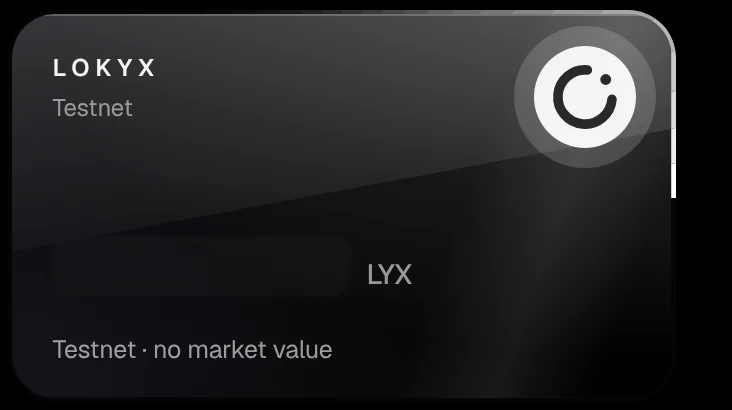
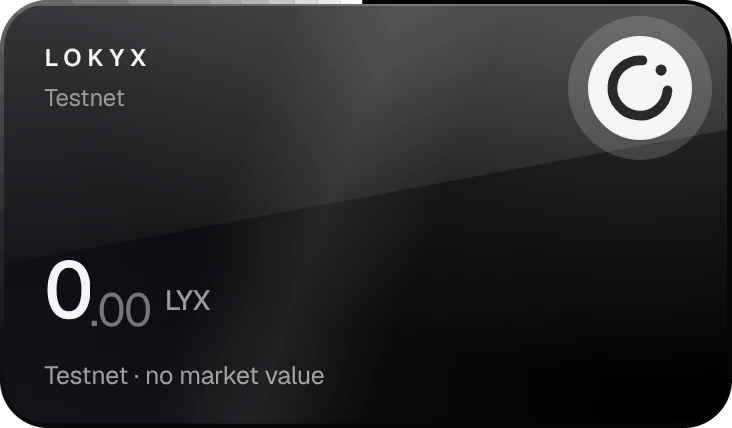
Site: clean card images, smoother card shuffle, what-comes-next section

diff --git a/site/index.html b/site/index.html
@@ -57,7 +57,7 @@ h3{font-size:21px;letter-spacing:-.015em;line-height:1.2;font-weight:600}
 .hero{padding:96px 22px 0;text-align:center;overflow:hidden}
 .hero .small{margin-top:20px}
 .cards{position:relative;margin:84px auto 0;max-width:1180px;height:clamp(150px,24vw,330px)}
-.cards img{position:absolute;top:0;width:30%;border-radius:4.5%;box-shadow:0 30px 60px rgba(0,0,0,.6)}
+.cards img{position:absolute;top:0;width:30%;border-radius:6.5%/11.2%;box-shadow:0 30px 60px rgba(0,0,0,.6);border-radius:6.5%/11.2%}
 .cards img:nth-child(1){left:0;z-index:1;--r:-5deg;--y:34px}
 .cards img:nth-child(2){left:17.5%;z-index:3;--r:-2.5deg;--y:14px}
 .cards img:nth-child(3){left:35%;z-index:5;--r:0deg;--y:0px}
@@ -214,7 +214,7 @@ footer .r{margin-left:auto}
 @media(prefers-reduced-motion:reduce){.slide *,.tapstage *{animation:none!important}.slide .knob{transform:translateX(calc(min(380px,84vw) - 76px))}.slide .s-a{opacity:0}.slide .s-b{opacity:1}.tapstage .ma{transform:translateX(-47px) rotate(-2deg)}.tapstage .mb{transform:translateX(47px) rotate(2deg)}}
 
 /* cards: tap one to bring it forward */
-.cards.live img{cursor:pointer;transition:left .9s cubic-bezier(.22,1,.36,1),transform .7s cubic-bezier(.22,1,.36,1),filter .7s,box-shadow .7s;outline:none}
+.cards.live img{cursor:pointer;transition:opacity .6s ease,left .9s cubic-bezier(.22,1,.36,1),transform .7s cubic-bezier(.22,1,.36,1),filter .7s,box-shadow .7s;outline:none}
 .cards.live img:not(.on){filter:brightness(.72)}
 .cards.live img.on{box-shadow:0 40px 90px rgba(41,151,255,.28),0 30px 60px rgba(0,0,0,.6)}
 .cards.live img:focus-visible{outline:2px solid #2997ff;outline-offset:6px}
@@ -230,6 +230,24 @@ footer .r{margin-left:auto}
 .cards.live img.on{box-shadow:0 40px 90px color-mix(in srgb,var(--ac) 45%,transparent),0 30px 60px rgba(0,0,0,.6)}
 .cards.live img:not(.on){filter:brightness(.8) saturate(.85)}
 .dots button.on{background:var(--ac)}
+
+/* what is coming */
+#next{border-bottom:1px solid #1d1d1f}
+.road{display:grid;grid-template-columns:repeat(4,1fr);gap:40px;margin-top:84px;text-align:left;position:relative}
+.road:before{content:"";position:absolute;left:0;right:0;top:7px;height:2px;background:#2c2c2e}
+.road:after{content:"";position:absolute;left:0;top:7px;height:2px;width:0;background:linear-gradient(90deg,#2997ff,#bf5af2);transition:width 2.4s cubic-bezier(.2,.7,.2,1) .3s}
+.road.in:after{width:100%}
+.road>div{position:relative;padding-top:38px}
+.road>div:before{content:"";position:absolute;left:0;top:0;width:16px;height:16px;border-radius:50%;background:#000;border:2px solid #48484a;transition:border-color .6s,background .6s;transition-delay:calc(var(--k)*.55s + .3s)}
+.road.in>div:before{border-color:#2997ff;background:#2997ff}
+.road h3{font-size:21px;font-weight:600;letter-spacing:-.02em}
+.road small{display:block;color:#2997ff;font-size:13px;margin-bottom:6px}
+.road ul{list-style:none;padding:0;margin:14px 0 0;color:var(--dim);font-size:15.5px;line-height:1.45}
+.road li{padding:5px 0}
+.later{margin:64px auto 0;max-width:720px;color:var(--dim);font-size:17px}
+.later b{color:#f5f5f7;font-weight:600}
+@media(max-width:860px){.road{grid-template-columns:1fr;gap:34px;margin-top:56px;padding-left:34px}.road:before,.road:after{left:7px;right:auto;top:0;bottom:0;width:2px;height:auto}.road:after{height:0;width:2px;transition:height 2.4s cubic-bezier(.2,.7,.2,1) .3s}.road.in:after{height:100%;width:2px}.road>div{padding-top:0}.road>div:before{left:-34px;top:4px}}
+@media(prefers-reduced-motion:reduce){.road:after{transition:none;width:100%}.road>div:before{transition:none;border-color:#2997ff;background:#2997ff}}
 </style>
 </head>
 <body>
@@ -242,6 +260,7 @@ footer .r{margin-left:auto}
     <a class="l" href="#rings">Rings</a>
     <a class="l" href="#tap">Tap to pay</a>
     <a class="l" href="#check">Contract check</a>
+    <a class="l" href="#next">Next</a>
     <a class="l" href="#beta">Beta</a>
     <a class="pill" href="#download">Download</a>
   </div>
@@ -258,11 +277,11 @@ footer .r{margin-left:auto}
   <p class="small">Free and open source. Test-network beta, not audited yet.</p>
   </div>
   <div class="cards" aria-label="The five coin cards in the wallet">
-    <img src="img/card-lyx.webp" alt="LOKYX card" width="732" height="410">
-    <img src="img/card-btc.webp" alt="Bitcoin card" width="732" height="410">
-    <img src="img/card-eth.webp" alt="Ethereum card" width="732" height="410">
-    <img src="img/card-sol.webp" alt="Solana card" width="732" height="410">
-    <img src="img/card-trx.webp" alt="Tron card" width="732" height="410">
+    <img src="img/card-lyx.webp" alt="LOKYX card" width="732" height="428">
+    <img src="img/card-btc.webp" alt="Bitcoin card" width="732" height="428">
+    <img src="img/card-eth.webp" alt="Ethereum card" width="732" height="428">
+    <img src="img/card-sol.webp" alt="Solana card" width="732" height="428">
+    <img src="img/card-trx.webp" alt="Tron card" width="732" height="428">
   </div>
   <div class="dots" id="dots" aria-label="Choose a card"></div>
   <p class="cards-note">Screenshots of the app running on test networks.</p>
@@ -412,6 +431,20 @@ footer .r{margin-left:auto}
   </div>
 </section>
 
+<section id="next">
+  <div class="wrap center">
+    <h2 class="sc">What comes next.</h2>
+    <p class="lede">The plan, in the order I'm building it.</p>
+    <div class="road rv">
+      <div style="--k:0"><small>Now</small><h3>Real-phone testing</h3><ul><li>Vault flow on Base and Arbitrum test networks</li><li>Solana and Tron sending</li><li>Backup file restore</li><li>Two watchtowers</li></ul></div>
+      <div style="--k:1"><small>Next</small><h3>WalletConnect</h3><ul><li>Connect to sites by QR or link</li><li>Every request goes through the contract check</li><li>A list of connected sites</li></ul></div>
+      <div style="--k:2"><small>Then</small><h3>Safer signing</h3><ul><li>Plain-English view of Permit and Seaport requests</li><li>A longer list of audited contracts</li><li>Cancel from a second phone</li></ul></div>
+      <div style="--k:3"><small>After that</small><h3>Review and mainnet</h3><ul><li>Independent security review</li><li>Closed beta</li><li>Mainnet starts on Base, with a low daily limit</li></ul></div>
+    </div>
+    <p class="later rv"><b>Later:</b> Bitcoin vault protection, Ledger support and an iPhone version. The full list is in the <a class="link" href="https://github.com/lokyx-community/lokyx-multichain-wallet/blob/main/ROADMAP.md">roadmap</a>.</p>
+  </div>
+</section>
+
 <section id="download">
   <div class="wrap center">
     <h2 class="sc">Get LOKYX Wallet.</h2>
@@ -476,7 +509,8 @@ footer .r{margin-left:auto}
     if(!cards)return;var cols=['#e8e8ed','#f7931a','#7b93ff','#9945ff','#ff3b30'],imgs=[].slice.call(cards.querySelectorAll('img')),dots=document.getElementById('dots'),sel=2,auto=null,names=['LOKYX','Bitcoin','Ethereum','Solana','Tron'];
     var btns=imgs.map(function(im,i){var b=document.createElement('button');b.type='button';b.setAttribute('aria-label',names[i]||'Card '+(i+1));b.onclick=function(){go(i,true)};dots.appendChild(b);im.tabIndex=0;im.setAttribute('role','button');im.setAttribute('aria-label',(names[i]||'Card')+' card');im.onclick=function(){go(i,true)};im.onkeydown=function(e){if(e.key==='Enter'||e.key===' '){e.preventDefault();go(i,true)}else if(e.key==='ArrowRight'){go((sel+1)%5,true)}else if(e.key==='ArrowLeft'){go((sel+4)%5,true)}};return b});
     function lay(){var m=mobile.matches,c=m?21:35,st=m?11.5:17.5;
-      imgs.forEach(function(im,i){var o=((i-sel+7)%5)-2,a=Math.abs(o);
+      imgs.forEach(function(im,i){var o=((i-sel+7)%5)-2,a=Math.abs(o),jump=im._o!==undefined&&Math.abs(o-im._o)>2;im._o=o;
+        if(jump&&!reduce){im.style.transition='none';im.style.opacity=0;im.style.left=(c+o*st)+'%';void im.offsetWidth;im.style.transition='';requestAnimationFrame(function(){im.style.opacity=''});}
         im.style.left=(c+o*st)+'%';im.style.zIndex=5-a*2+(o<0?0:1);
         im.style.setProperty('--r',(o*2.6)+'deg');im.style.setProperty('--y',(a*(m?12:15)+(a>1?8:0))+'px');
         im.classList.toggle('on',o===0);if(o===0&&hero)hero.style.setProperty('--ac',cols[i]);btns[i].classList.toggle('on',o===0)})}

diff --git a/src/app/zz-cards.tsx b/src/app/zz-cards.tsx
@@ -1,0 +1,19 @@
+import { View } from 'react-native';
+import { NeonCard, type NeonData } from '../ui/NeonCard';
+
+const cards: NeonData[] = [
+  { rim: 'lyx', title: 'LOKYX', sub: 'Testnet', balance: '0.00', unit: 'LYX', note: 'Testnet · no market value', mark: { kind: 'lyx' } },
+  { rim: 'btc', title: 'Bitcoin', sub: 'Signet', balance: '0.0412', unit: 'sBTC', note: 'Testnet · no market value', mark: { kind: 'logo', id: 'btc' } },
+  { rim: 'eth', title: 'Ethereum', sub: 'Ethereum · 10 networks', balance: '1.2048', unit: 'SepoliaETH', note: 'Testnet · no market value', mark: { kind: 'logo', id: 'eth' } },
+  { rim: 'sol', title: 'Solana', sub: 'Devnet', balance: '12.48', unit: 'SOL', note: 'Testnet · no market value', mark: { kind: 'logo', id: 'sol' } },
+  { rim: 'trx', title: 'Tron', sub: 'Nile', balance: '2210.5', unit: 'TRX', note: 'Testnet · no market value', mark: { kind: 'logo', id: 'trx' } },
+];
+export default function ZZ() {
+  return (
+    <View style={{ flex: 1, backgroundColor: 'transparent', padding: 20, gap: 30 }}>
+      {cards.map((c, i) => (
+        <View key={i} nativeID={`zc${i}`} style={{ width: 366, height: 214 }}><NeonCard c={c} width={366} height={214} /></View>
+      ))}
+    </View>
+  );
+}
